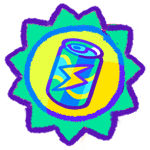
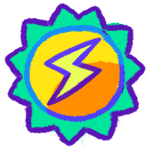
worm reigning champ award, new underdog, stronger poison

diff --git a/codecreature.net/updates/updateLog.js b/codecreature.net/updates/updateLog.js
@@ -26,6 +26,19 @@ const updateLog = [
 		`
 	},*/
 	{
+		date: new Date('2026-06-29T19:12'),
+		authors: ['emery'],
+		tags: ['games','worm race'],
+		summary: `
+			<a href="/games/worm-race">worm race</a> award adjustments, poison effect increase
+		`,
+		details: `
+			<p>Poison now does -50 progress on worms with zero health, equivalent to one Battery Juice at full health. Hate is as strong as love <img src="/graphix/emojis/broken_heart.png" class="mini no-full-view" alt="broken heart"></p>
+			<figure><img src="/games/worm-race/images/award_reigning_champion.png" alt="Round gold crown stamp in red and yellow."></figure>
+			<p>The Underdog award now goes to the loser of the previous season, and there is an equivalent award for last season's winner! Additionally, the Creature's Pet award no longer displays on the racetrack, only on the worm's trophy page.</p>
+		`
+	},
+	{
 		date: new Date('2026-06-29T01:19'),
 		authors: ['emery'],
 		tags: ['general','worm race','minor'],

diff --git a/codecreature.net/games/worm-race/racetrack/racetrack.css b/codecreature.net/games/worm-race/racetrack/racetrack.css
@@ -51,6 +51,7 @@
 	border-radius: 50%;
 	padding: 8px;
 	border: calc(var(--menu-border) * .75) var(--white) solid;
+	box-sizing: initial;
 	img { max-width: 100%; }
 }
 #awards .award:not([data-worm]) img {

diff --git a/codecreature.net/games/worm-race/racetrack/load_season.php b/codecreature.net/games/worm-race/racetrack/load_season.php
@@ -129,48 +129,60 @@ getAllData();
 				?>
 			</section>
 			
-			<a id="awards" href="../guide#awards" aria-label="worm awards">
+			<div id="awards" aria-label="worm awards">
 				<?php
 					function getAwardId($name) { return "award-".strtolower(str_replace("'","",str_replace(" ","-",$name))); }
 					function getAwardImage($name) { return "award_".strtolower(str_replace(" ","_",$name)).".png"; }
-					$awards = ['Certified Organic','Caffeine Addict','Private Insurance','Most Despised','Underdog','Most Kinnable',"Creature's Pet"];
+					$awards = ['Certified Organic','Caffeine Addict','Private Insurance','Most Despised','Reigning Champion','Underdog','Most Kinnable'];
 					for ($i = 0; $i < count($awards); $i++) {
-						echo "
-							<div id='".getAwardId($awards[$i])."' class='award tooltip'>
-								<img src=../images/".getAwardImage($awards[$i])." alt=`$awards[$i]`>
-								<span class='tooltip-text'>$awards[$i]: Nobody</span>
-							</div>
-						";
+						?>
+						<button id="<?php echo getAwardId($awards[$i]); ?>" class="award tooltip">
+							<img src="../images/<?php echo getAwardImage($awards[$i]); ?>" alt="<?php echo $awards[$i]; ?>">
+							<span class='tooltip-text'><?php echo $awards[$i]; ?>: Nobody</span>
+						</button>
+						<?php
 					}
 				?>
 				<script>
 					<?php
-						for ($i = 0; $i < count($worms); $i++) {
-							$awards = $worms[$i]["awards"];
-							for ($a = 0; $a < count($awards); $a++) {
-								echo "(()=>{
-									let award = document.getElementById('". getAwardId($awards[$a]) ."');
-									if (award.dataset.worm == undefined) {
-										award.querySelector('.tooltip-text').innerHTML = `".$awards[$a].": ".$worms[$i]['name']."`;
-										award.style.background = 'var(--". $worms[$i]["color"] .")';
-										// log that this award has been assigned to a worm
-										award.dataset.worm = '". $worms[$i]["color"] ."';
-									} else { // if award already assigned to at least one other worm
-										award.dataset.worm += ',". $worms[$i]["color"] ."';
-										let awardedTo = award.dataset.worm.split(',');
-										let bg = 'linear-gradient(to bottom';
-										for (let i = 0; i < awardedTo.length; i++) {
-											bg += ', var(--' + awardedTo[i] + ')';
-										}
-										award.style.background = bg + ')';
-										award.querySelector('.tooltip-text').innerHTML += ', ".$worms[$i]['name']."';
-									}
-								})();";
+					for ($i = 0; $i < count($worms); $i++) {
+						$cur_worm_awards = $worms[$i]["awards"];
+						for ($a = 0; $a < count($cur_worm_awards); $a++) {
+							?>
+					(()=>{
+						<?php echo "
+						let award = document.getElementById('". getAwardId($cur_worm_awards[$a]) ."');
+						let awardName = `". $cur_worm_awards[$a] ."`;
+						let wormColor = `". $worms[$i]["color"] ."`;
+						let wormName = `". $worms[$i]["name"] ."`;
+						"; ?>
+						// if the award element exists
+						if (award) {
+							// if no worm has been assigned to this award yet
+							if (award.dataset.worm == undefined) {
+								award.querySelector('.tooltip-text').innerHTML = awardName + ": " + wormName;
+								award.style.background = 'var(--' + wormColor + ')';
+								// log that this award has been assigned to a worm
+								award.dataset.worm = wormColor;
+							// if award already assigned to at least one other worm
+							} else {
+								award.dataset.worm += "," + wormColor;
+								let awardedTo = award.dataset.worm.split(',');
+								let bg = 'linear-gradient(to bottom';
+								for (let i = 0; i < awardedTo.length; i++) {
+									bg += ', var(--' + awardedTo[i] + ')';
+								}
+								award.style.background = bg + ')';
+								award.querySelector('.tooltip-text').innerHTML += ", " + wormName;
 							}
 						}
+					})();
+							<?php
+						}
+					}
 					?>
 				</script>
-			</a>
+			</div>
 			
 		</div>
 		<!--end race content-->

diff --git a/codecreature.net/games/worm-race/worm-functions.php b/codecreature.net/games/worm-race/worm-functions.php
@@ -73,7 +73,21 @@ function getWormAwards() {
 		} else { $load_err = "Could not fetch user data. Try again later."; }
 	}
 	
-	// find highest kin, highest apples
+	if ($active_season["name"] != "all_time" && $active_season["name"] != "alpha") {
+		// find winning and losing progress of previous season
+		$prevSeason = getPrevSeason($season = $active_season);
+		$prev_season_worms = [];
+		$prev_lowest_progress = '';
+		$prev_highest_progress = '';
+		for ($i = 0; $i < count($worms); $i++) {
+			$w = json_decode($prevSeason["worm_".$i],true);
+			if (empty($prev_lowest_progress) || $w["progress"] < $prev_lowest_progress) { $prev_lowest_progress = $w["progress"]; }
+			if (empty($prev_highest_progress) || $w["progress"] > $prev_highest_progress) { $prev_highest_progress = $w["progress"]; }
+			$prev_season_worms[] = ["id" => $i, "progress" => $w["progress"]];
+		}
+	}
+	
+	// find highest kin, highest items
 	$highest_icons = 0; // number of users with worm as their icon
 	$highest_apple_percent = 0; // highest percent of apples
 	$highest_drink_percent = 0; // highest percent of energy drinks
@@ -111,6 +125,14 @@ function getWormAwards() {
 		// health potions award
 		if (!empty($worms[$i]["heal_percent"]) && $worms[$i]["heal_percent"] == $highest_heal_percent) {
 			$worms[$i]['awards'][] = 'Private Insurance';
+		}
+		if ($active_season["name"] != "all_time" && $active_season["name"] != "alpha") {
+			// underdog and reigning champion award
+			if ($prev_season_worms[$i]['progress'] == $prev_lowest_progress) {
+				$worms[$i]['awards'][] = 'Underdog';
+			} else if (!empty($prev_season_worms[$i]['progress']) && $prev_season_worms[$i]['progress'] == $prev_highest_progress) {
+				$worms[$i]['awards'][] = 'Reigning Champion';
+			}
 		}
 		// icons award
 		if (!empty($worms[$i]['kins']) && $worms[$i]['kins'] == $highest_icons) {

diff --git a/codecreature.net/games/worm-race/guide/index.php b/codecreature.net/games/worm-race/guide/index.php
@@ -110,10 +110,18 @@
 								</div>
 								
 								<div class="award">
+									<img src="../images/award_reigning_champion.png" alt="">
+									<div class="name">Reigning Champion</div>
+									<div class="description">
+										winner of the previous season
+									</div>
+								</div>
+								
+								<div class="award">
 									<img src="../images/award_underdog.png" alt="">
 									<div class="name">Underdog</div>
 									<div class="description">
-										win first place after coming in last the previous season
+										loser of the previous season
 									</div>
 								</div>
 								

diff --git a/codecreature.net/games/worm-race/season.php b/codecreature.net/games/worm-race/season.php
@@ -170,6 +170,7 @@ function seasonIsOngoing($season) {
 			$season_worms[] = ["id" => $i, "progress" => $w["progress"]];
 		}
 		
+		/* OLD UNDERDOG (win first place after coming in last the previous season)
 		// get the losing progress of the season BEFORE the season being processed
 		$prevSeason = getPrevSeason($season = $season);
 		$prev_season_worms = [];
@@ -222,6 +223,7 @@ function seasonIsOngoing($season) {
 				
 			}
 		}
+		*/
 		
 		// sort the winner rankings in descending order
 		function prog_sort($a, $b) {